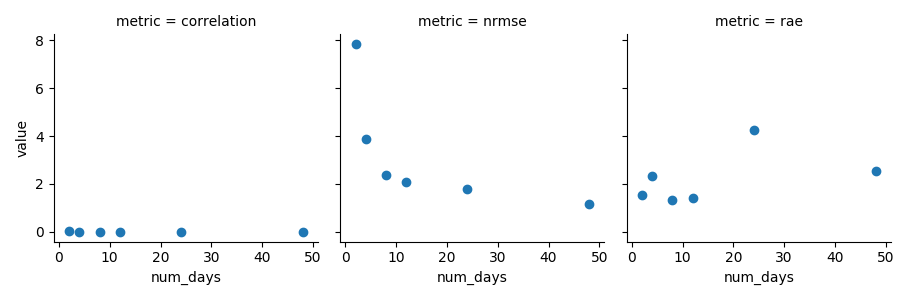
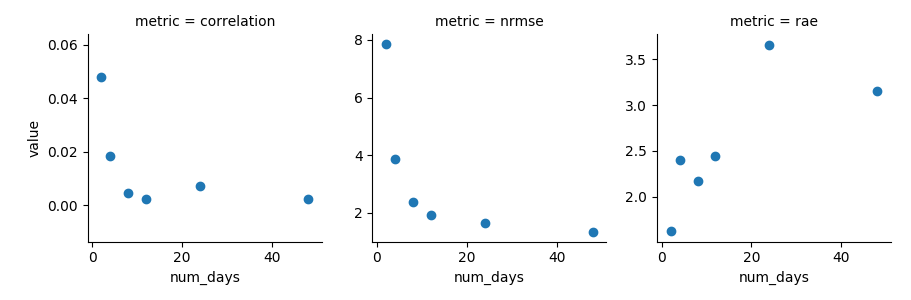
fixed tests to take into account percentages

diff --git a/test/test_metrics/test_metrics.py b/test/test_metrics/test_metrics.py
@@ -29,7 +29,7 @@ class Test_Metrics:
         
         all_nrmse = Metrics(original_solar, representative_solar, original_wind, representative_wind, original_load, representative_load)._get_nrmse()
 
-        expected_nrmse = [{'metric': 'nrmse', 'series_type': 'solar', 'value': 0.16666666666666669}, {'metric': 'nrmse', 'series_type': 'wind', 'value': 0.0}, {'metric': 'nrmse', 'series_type': 'load', 'value': 0.08333333333333338}]
+        expected_nrmse = [{'metric': 'nrmse', 'series_type': 'solar', 'value': 16.666666666666668}, {'metric': 'nrmse', 'series_type': 'wind', 'value': 0.0}, {'metric': 'nrmse', 'series_type': 'load', 'value': 8.33333333333334}]
         assert all_nrmse == expected_nrmse
 
     def test_all_rae(self):
@@ -42,7 +42,7 @@ class Test_Metrics:
         
         all_nrmse = Metrics(original_solar, representative_solar, original_wind, representative_wind, original_load, representative_load)._get_rae()
 
-        expected_nrmse = [{'metric': 'rae', 'series_type': 'solar', 'value': 0.07142857142857155}, {'metric': 'rae', 'series_type': 'wind', 'value': 0.0}, {'metric': 'rae', 'series_type': 'load', 'value': 0.0357142857142855}]
+        expected_nrmse = [{'metric': 'rae', 'series_type': 'solar', 'value': 7.142857142857155}, {'metric': 'rae', 'series_type': 'wind', 'value': 0.0}, {'metric': 'rae', 'series_type': 'load', 'value': 3.57142857142855}]
         assert all_nrmse == expected_nrmse
 
     def test_all_correlations(self):
@@ -79,6 +79,6 @@ class Test_Metrics:
 
         error_metrics = Metrics(original_solar, representative_solar, original_wind, representative_wind, original_load, representative_load).get_error_metrics()
 
-        expected_result = pd.DataFrame({'metric': ['nrmse','nrmse','nrmse', 'rae', 'rae', 'rae','correlation','correlation','correlation'], 'series_type': ['solar', 'wind', 'load','solar', 'wind', 'load',"solar-wind","solar-load", "wind-load"], 'value': [0.16666666666666669, 0.0, 0.08333333333333338, 0.07142857142857155, 0.0, 0.0357142857142855, 0, 0, 0]})
+        expected_result = pd.DataFrame({'metric': ['nrmse','nrmse','nrmse', 'rae', 'rae', 'rae','correlation','correlation','correlation'], 'series_type': ['solar', 'wind', 'load','solar', 'wind', 'load',"solar-wind","solar-load", "wind-load"], 'value': [16.666666666666669, 0.0, 8.333333333333338, 7.142857142857155, 0.0, 3.57142857142855, 0, 0, 0]})
 
         assert_frame_equal(error_metrics, expected_result)

diff --git a/test/test_metrics/test_single_metrics.py b/test/test_metrics/test_single_metrics.py
@@ -23,11 +23,11 @@ class Test_SingleMetrics:
         approximated_ldc = pd.DataFrame({"capacity_factor":[math.exp(i)-1+0.1 for i in np.arange(0, 0.70, 0.007)], "duration":[i for i in range(0,100,1)]})
         ldc_nrmse = SingleMetrics(original_ldc, approximated_ldc).nrmse()
 
-        assert ldc_nrmse == pytest.approx(0.1, rel=0.1)
+        assert ldc_nrmse == pytest.approx(10.0, rel=0.1)
 
     def test_rae(self):
         original_ldc = pd.DataFrame({"capacity_factor":[math.exp(i)-1 for i in np.arange(0, 0.70, 0.007)], "duration":[i for i in range(0,100,1)]})
         approximated_ldc = pd.DataFrame({"capacity_factor":[math.exp(i)-1+0.1 for i in np.arange(0, 0.70, 0.007)], "duration":[i for i in range(0,100,1)]})
         ldc_nrmse = SingleMetrics(original_ldc, approximated_ldc).nrmse()
 
-        assert ldc_nrmse == pytest.approx(0.1, rel=0.1)
+        assert ldc_nrmse == pytest.approx(10.0, rel=0.1)

diff --git a/src/models/error_metrics_run.py b/src/models/error_metrics_run.py
@@ -56,7 +56,7 @@ if __name__ == "__main__":
     logger.info("columns name: {}".format(results_dataframe.columns))
 
     # results_dataframe.plot()
-    g = sns.FacetGrid(data=results_dataframe, col="metric")
+    g = sns.FacetGrid(data=results_dataframe, col="metric", sharey=False)
     g.map(plt.scatter, "num_days", "value")
     g.add_legend()
     plt.savefig("results234543.png")
